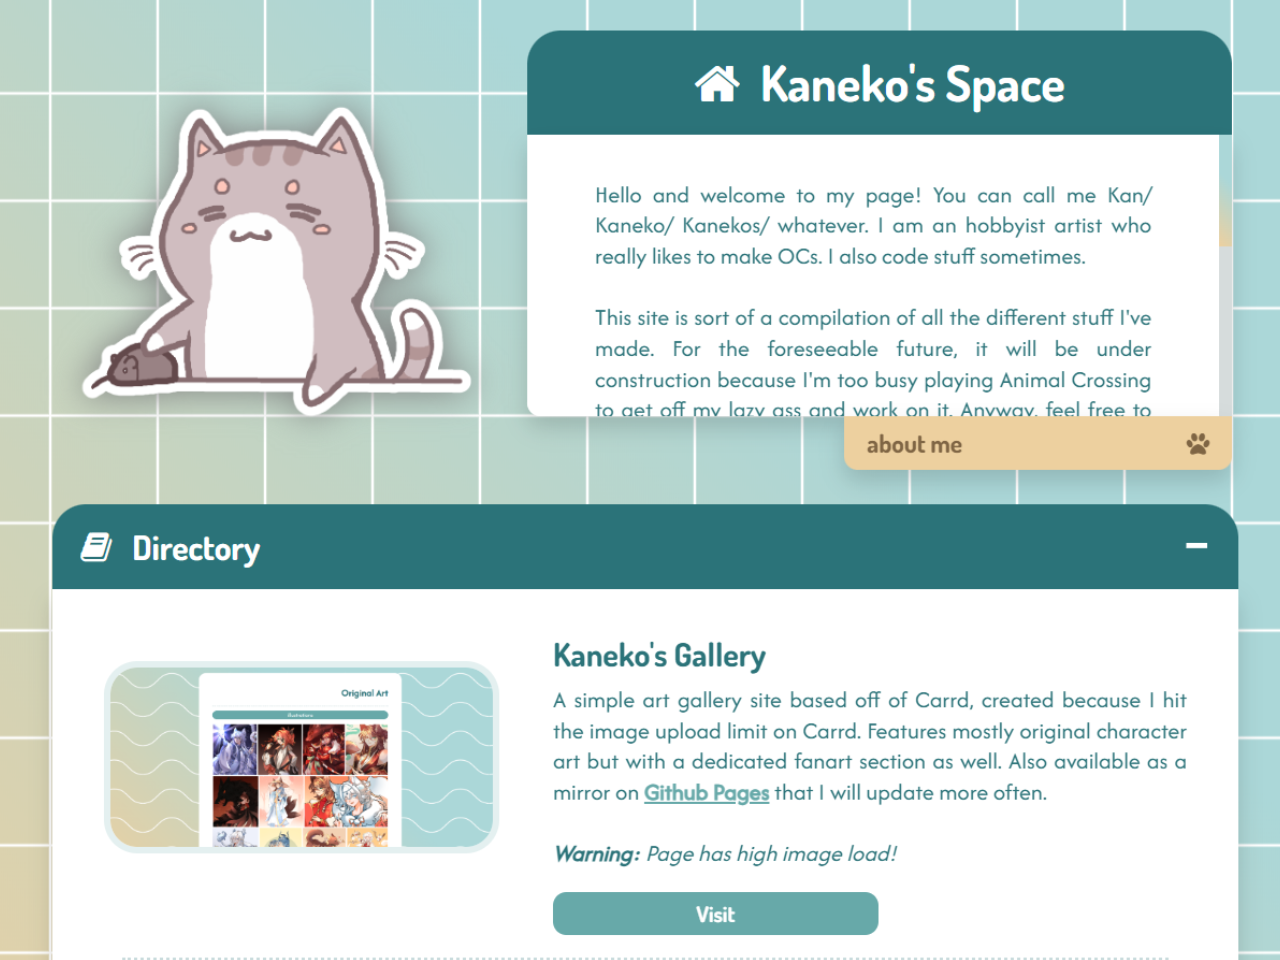
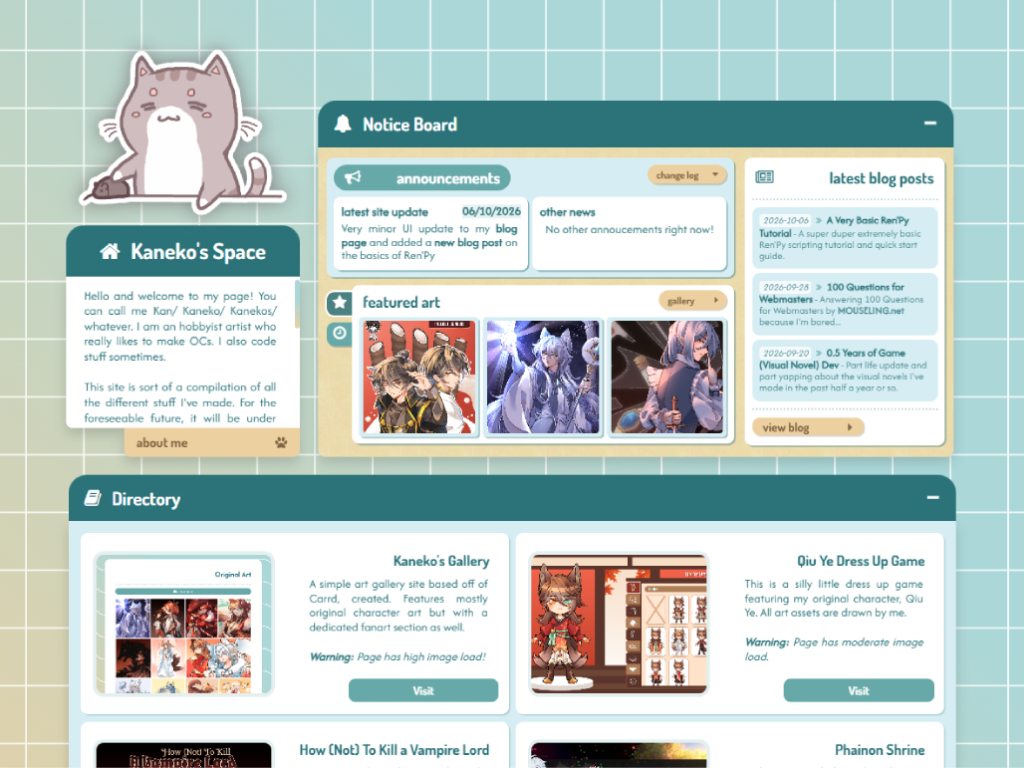
Minor changes and change log update

diff --git a/home/scripts/changelog.js b/home/scripts/changelog.js
@@ -1,5 +1,9 @@
 const changelog = [
   {
+    status: `Welcome to my new home page! Featuring a new noticeboard section to share the latest site updates, and a more compact directory section. The old home page will be added at a later date to an archive page.`,
+    date: "10/10/2026",
+  },
+  {
     status: `Very minor UI update to my <a href="https://kanekos.neocities.org/blog/">blog page</a> and added a <a href="https://kanekos.neocities.org/blog/posts/2026-10-06-Basic-Renpy-Tutorial/">new blog post</a> on the basics of Ren'Py`,
     date: "06/10/2026",
   },
@@ -119,15 +123,11 @@ const todo = [
     status: "",
   },
   {
-    label: "Add noticeboard to home page",
-    status: "",
-  },
-  {
-    label: "Adjust home page directory UI",
-    status: "",
-  },
-  {
     label: "Make some kind of links/ webring page",
+    status: "",
+  },
+  {
+    label: "Create archive page",
     status: "",
   },
   {
@@ -137,6 +137,14 @@ const todo = [
   {
     label: "Add chat box - Chattable",
     status: "",
+  },
+  {
+    label: "Add noticeboard to home page",
+    status: "completed",
+  },
+  {
+    label: "Adjust home page directory UI",
+    status: "completed",
   },
   {
     label: "Adjust blog UI",

diff --git a/index.html b/index.html
@@ -535,7 +535,9 @@
                             <a
                               href="https://virtualobserver.moe/ayano/comment-widget"
                               >Ayano's Comment Widget</a
-                            >. Feel free to leave a message!<br class="white-space"/><br class="white-space"/>
+                            >. Feel free to leave a message!<br
+                              class="white-space"
+                            /><br class="white-space" />
                           </p>
                         </div>
                         <div class="visit-btn-wrapper">
@@ -774,7 +776,7 @@
       }
     </script>
     <script src="common/scripts/sidemenu.js"></script>
-    <script src="home/scripts/changelog.js"></script>
+    <script src="https://cdn.jsdelivr.net/gh/kanekos99/neocities@main/home/scripts/changelog.js"></script>
     <script src="https://kanekos99.github.io/sketch-gallery/scripts/images.js"></script>
     <script src="https://kanekos.neocities.org/blog/blog-posts-summary.js"></script>
     <script src="home/scripts/main.js"></script>

diff --git a/home/scripts/main.js b/home/scripts/main.js
@@ -37,8 +37,8 @@ function loadChangelog() {
   changelog.forEach((log, index) => {
     let statusLogHTML = `
       <p class="home-text update-text">
-        <b>${log.date}</b>
-        <br><br>
+        <span class="update-text-date">${log.date}</span>
+        <i class="fa fa-angle-double-right me-1" aria-hidden="true"></i>
         ${log.status}
       </p>
     `;
@@ -126,8 +126,7 @@ function showImage(image) {
 
 function loadBlogPosts() {
   blog_posts.slice(0, 3).forEach((post) => {
-
-    const postDate = post.date.split("T")[0]
+    const postDate = post.date.split("T")[0];
 
     const postHTML = `
       <div class="notice-post">

diff --git a/home/styles/main.css b/home/styles/main.css
@@ -418,7 +418,20 @@ a:hover {
 }
 
 .update-text {
-  text-align: center;
+  text-align: left;
+  line-height: 1.25;
+}
+
+.update-text i {
+  opacity: 0.5;
+}
+
+.update-text-date {
+  font-weight: 900;
+  background-color: #d6eef3;
+  padding: 1px 10px;
+  margin-right: 5px;
+  border-radius: 5px;
 }
 
 .todo-accordion-body {
